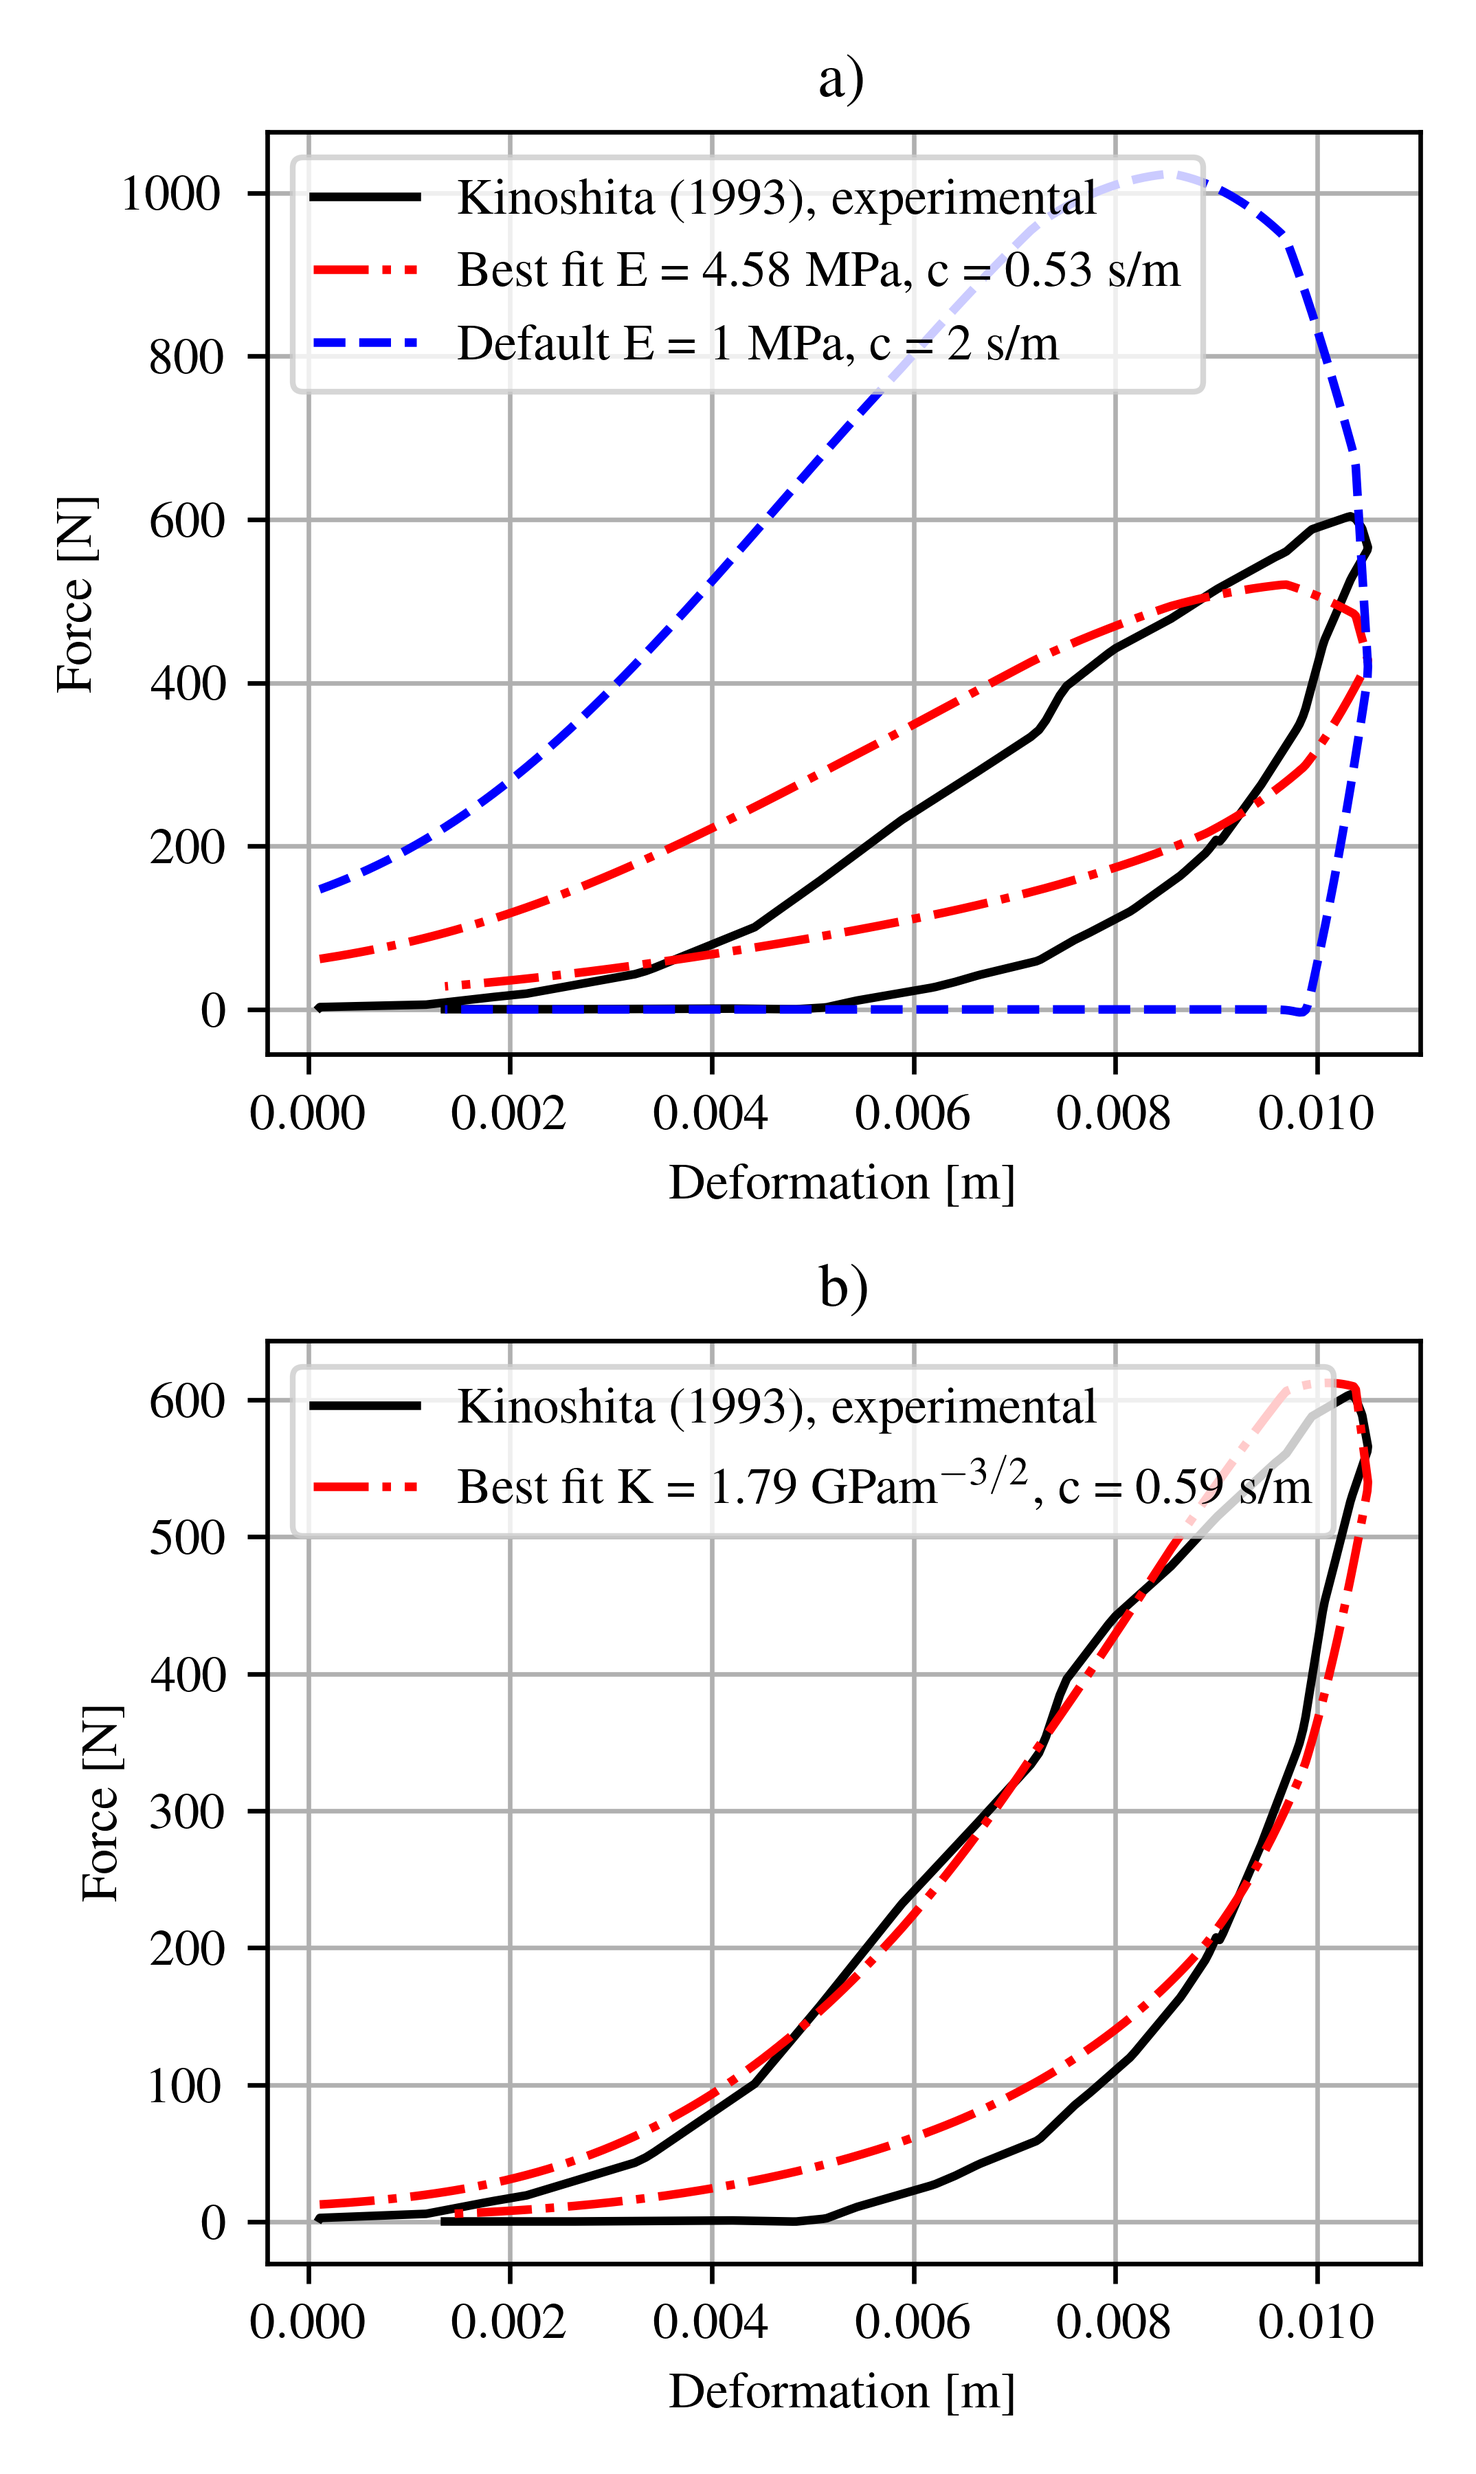
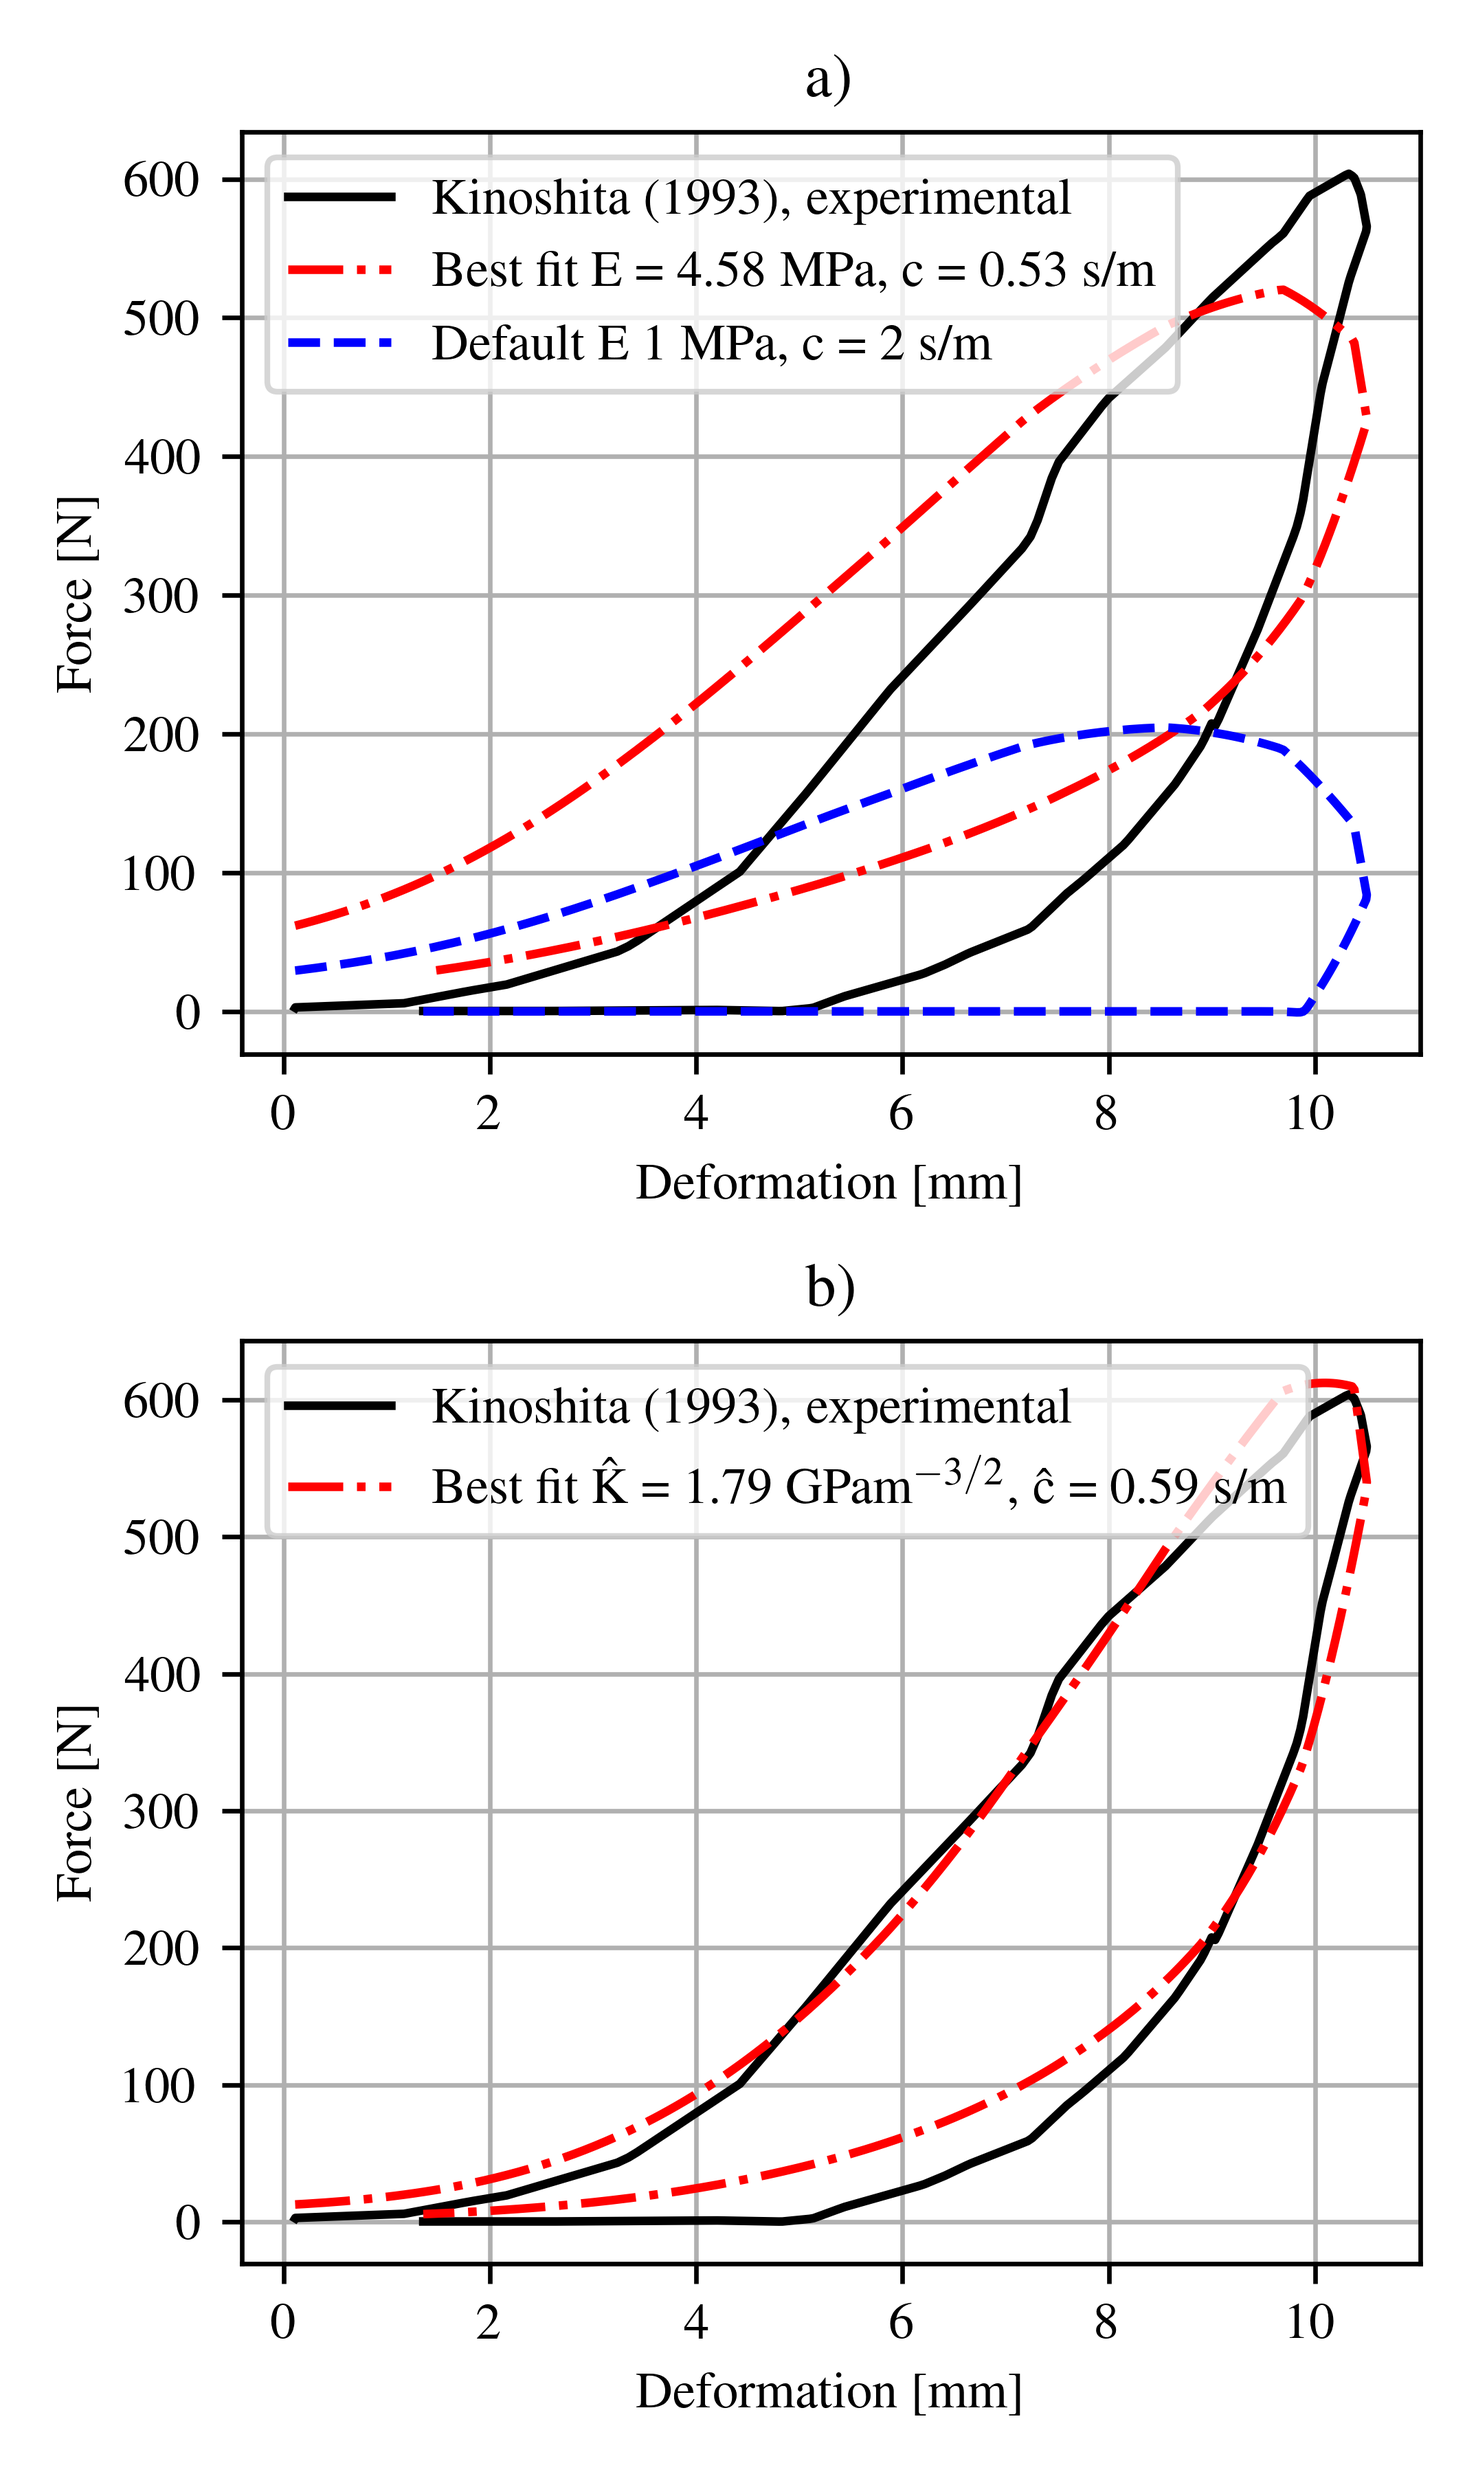
fixes to figs

diff --git a/main.py b/main.py
@@ -52,17 +52,22 @@ fN_truth = mass*xddot
 fig, (ax1, ax2, ax3) = plt.subplots(3, 1)
 fsize = 8
 
-ax1.plot(t,x,'k',label='x')
-ax1.set_ylabel('Deformation\n [m]',fontsize=fsize)
+ax1.plot(t,x*1000,'k',label='x')
+ax1.set_ylabel('Deformation\n [mm]',fontsize=fsize)
 ax1.tick_params(axis='both', labelsize=8)
-ax2.plot(t,xddot,'k')
-ax2.set_ylabel('Deceleration\n [m/$\mathdefault{s^2}$]',fontsize=fsize)
-ax2.tick_params(axis='both', labelsize=8)
-ax3.plot(t,xdot,'k',label='$\mathrm{\dot{x}}$')
-ax3.set_ylabel('Deformation rate\n [m/s]',fontsize=fsize)
-ax3.set_xlabel('Time [s]',fontsize=fsize)
+ax3.plot(t,xddot*1000,'k')
+ax3.set_ylabel('Deceleration\n [mm/$\mathdefault{\mathrm{s}^2}$]',fontsize=fsize)
 ax3.tick_params(axis='both', labelsize=8)
 
+ax2.plot(t,xdot*1000,'k',label='$\mathrm{\dot{x}}$')
+ax2.set_ylabel('Deformation rate\n [mm/s]',fontsize=fsize)
+ax3.set_xlabel('Time [s]',fontsize=fsize)
+ax2.tick_params(axis='both', labelsize=8)
+
+from matplotlib.ticker import ScalarFormatter
+
+for ax in (ax1, ax2, ax3):
+    ax.ticklabel_format(axis='y', style='sci', scilimits=(0,0))
 # Experimental data
 # ax1.plot(x_data[:, 0], x_data[:, 1], 'ro', label='Experimental')
 # ax2.plot(decel_data[:, 0], decel_data[:, 1], 'ro', label='Experimental')
@@ -77,7 +82,7 @@ fig.tight_layout()
 # fig.set_facecolor('#DDEAF7')
 
 # plt.show()
-# fig.savefig('fig/data.png', format='png', dpi=600)
+fig.savefig('fig/data.png', format='png', dpi=600)
 
 
 
@@ -90,14 +95,14 @@ plt.rcParams['font.size'] = 9
 fig, (ax1, ax2) = plt.subplots(2,1)
 # Subplot 1
 # Get default model results
-E = 5e6
-c = 2
-fN = utils.get_fn_falisse_smooth([E, c], x, xdot)
+# E = 5e6
+# c = 2
+# fN = utils.get_fn_falisse_smooth([E, c], x, xdot)
 
 # Plot default vs. ground truth
-ax1.plot(x, fN_truth, label = 'Kinoshita (1993), experimental', color = 'black')
+ax1.plot(x*1000, fN_truth, label = 'Kinoshita (1993), experimental', color = 'black')
 ax1.set_ylabel('Force [N]')
-ax1.set_xlabel('Deformation [m]')
+ax1.set_xlabel('Deformation [mm]')
 ax1.set_title('a)')
 # Function to optimize 
 def residuals(X, x, xdot, fN_truth): 
@@ -131,21 +136,25 @@ fN = utils.get_fn_falisse_smooth([res.x[0],res.x[1]],x,xdot)
 Edec = Decimal(int(res.x[0]))
 Esci =  '{:.2E}'.format(Edec) 
 
-ax1.plot(x, fN, '-.',
+ax1.plot(x*1000, fN, '-.',
         label = 'Best fit E = %.2f MPa, c = %.2f s/m ' % (res.x[0]/1000000, res.x[1]),
         # label = 'Best fit E =' + Esci + ' Pa, c = %.2f s/m' % res.x[1],
 
         color = 'red',linestyle='-.')
+
+
 # Plot what would be the default loop
+E = 1e6
+c = 2
 fN_def = utils.get_fn_falisse_smooth([E,c],x,xdot)
-ax1.plot(x, fN_def, label = 'Default E = 1 MPa, c = 2 s/m',
+ax1.plot(x*1000, fN_def, label = 'Default E %d MPa, c = %d s/m ' % (E/1e6, c),
         color = 'b',linestyle='--')
 ax1.grid()
 ax1.legend()
 
 #SUBPLOT 2
-ax2.plot(x, fN_truth, label = 'Kinoshita (1993), experimental', color = 'black')
-ax2.set_xlabel('Deformation [m]')
+ax2.plot(x*1000, fN_truth, label = 'Kinoshita (1993), experimental', color = 'black')
+ax2.set_xlabel('Deformation [mm]')
 ax2.set_ylabel('Force [N]')
 ax2.grid()
 ax2.set_title('b)')
@@ -180,8 +189,8 @@ fN = utils.get_fn_custom_smooth([res.x[0], res.x[1]], x, xdot)
 
 Edec = Decimal(int(res.x[0]))
 Esci =  '{:.2E}'.format(Edec) 
-ax2.plot(x, fN, '-.',
-        label = 'Best fit K = %.2f $\mathrm{GPa m^{-3/2}}$, c = %.2f s/m' % (res.x[0]/(1e9),res.x[1]),
+ax2.plot(x*1000, fN, '-.',
+        label = 'Best fit $\hat{\mathrm{K}}$ = %.2f $\mathrm{GPa m^{-3/2}}$, $\hat{\mathrm{c}}$ = %.2f s/m' % (res.x[0]/(1e9),res.x[1]),
         # label = 'Best fit E =' + Esci + ' Pa, c = %.2f s/m' % res.x[1],
 
         color = 'red', linestyle='-.')
